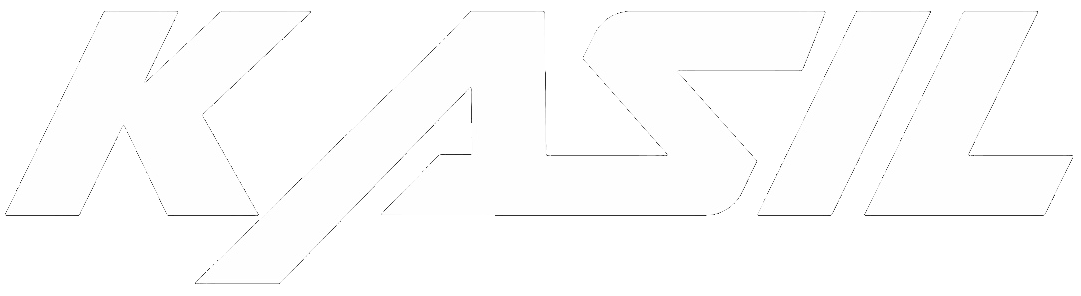
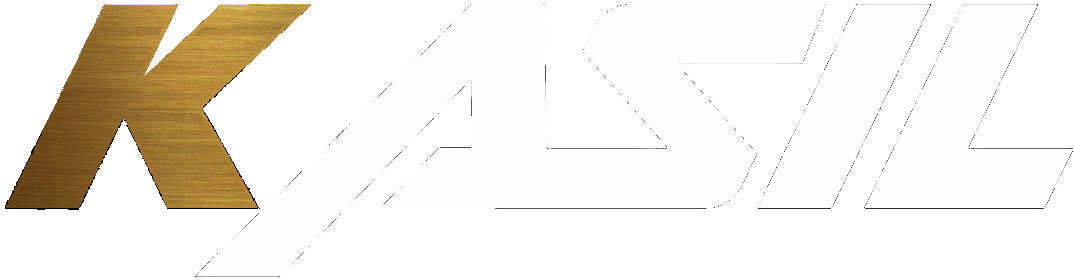
Nav bar : Golden K
Made nav bar transparent on scroll (was previously gray). Added golden texture to the k.

diff --git a/style.css b/style.css
@@ -41,7 +41,7 @@ p {
 
 /* on scroll */
 .navbar.scrolled {
-    background: rgba(54, 54, 54, 0.95);
+    background: transparent;
     backdrop-filter: blur(10px);
     -webkit-backdrop-filter: blur(10px);
     padding: 15px 40px;
